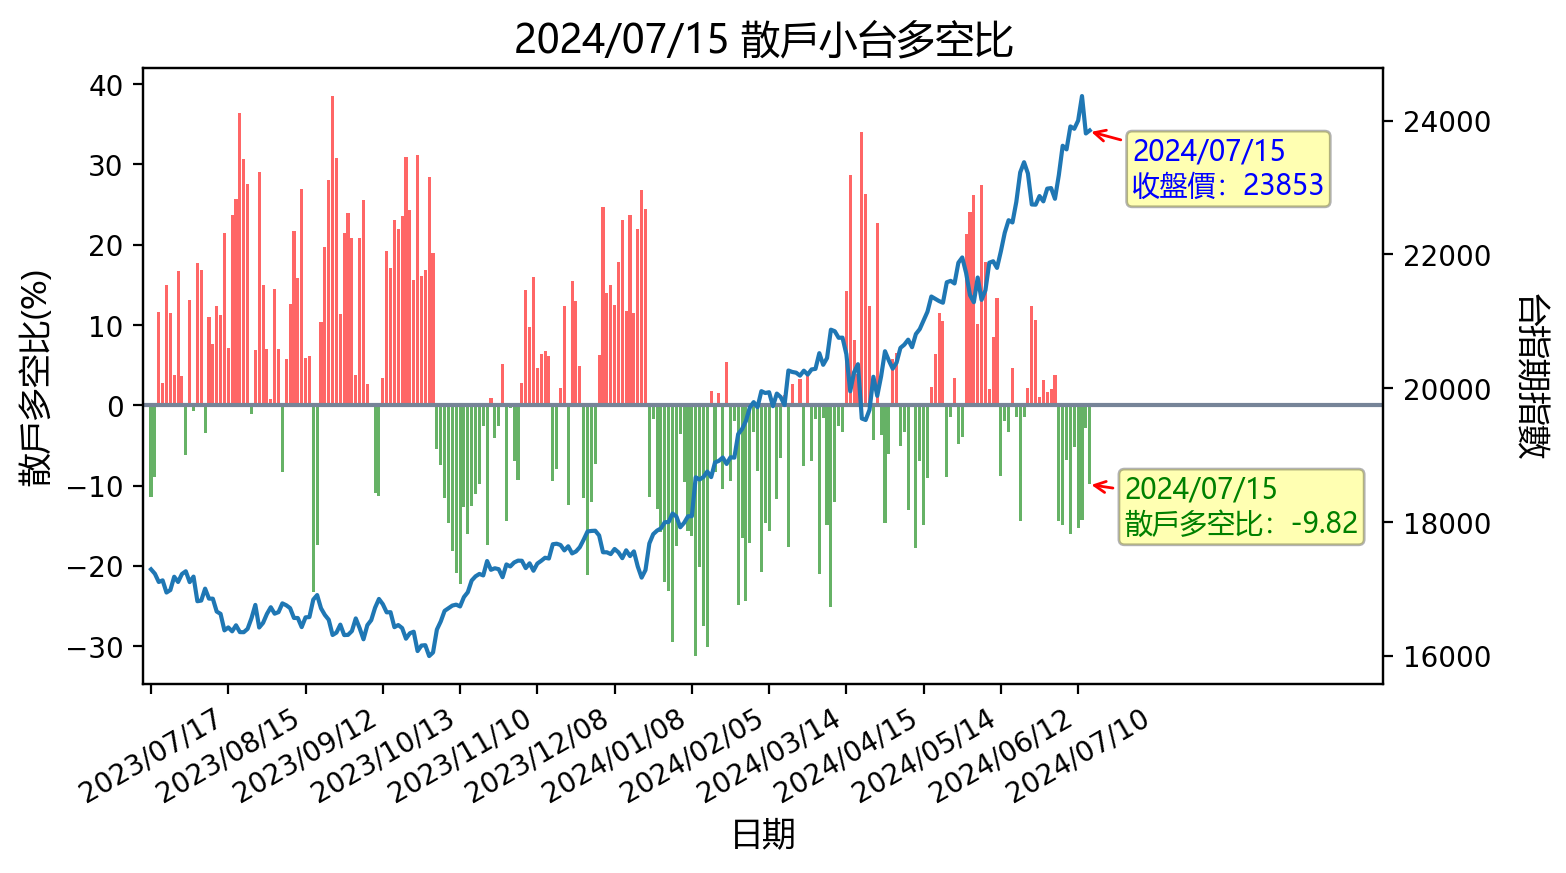
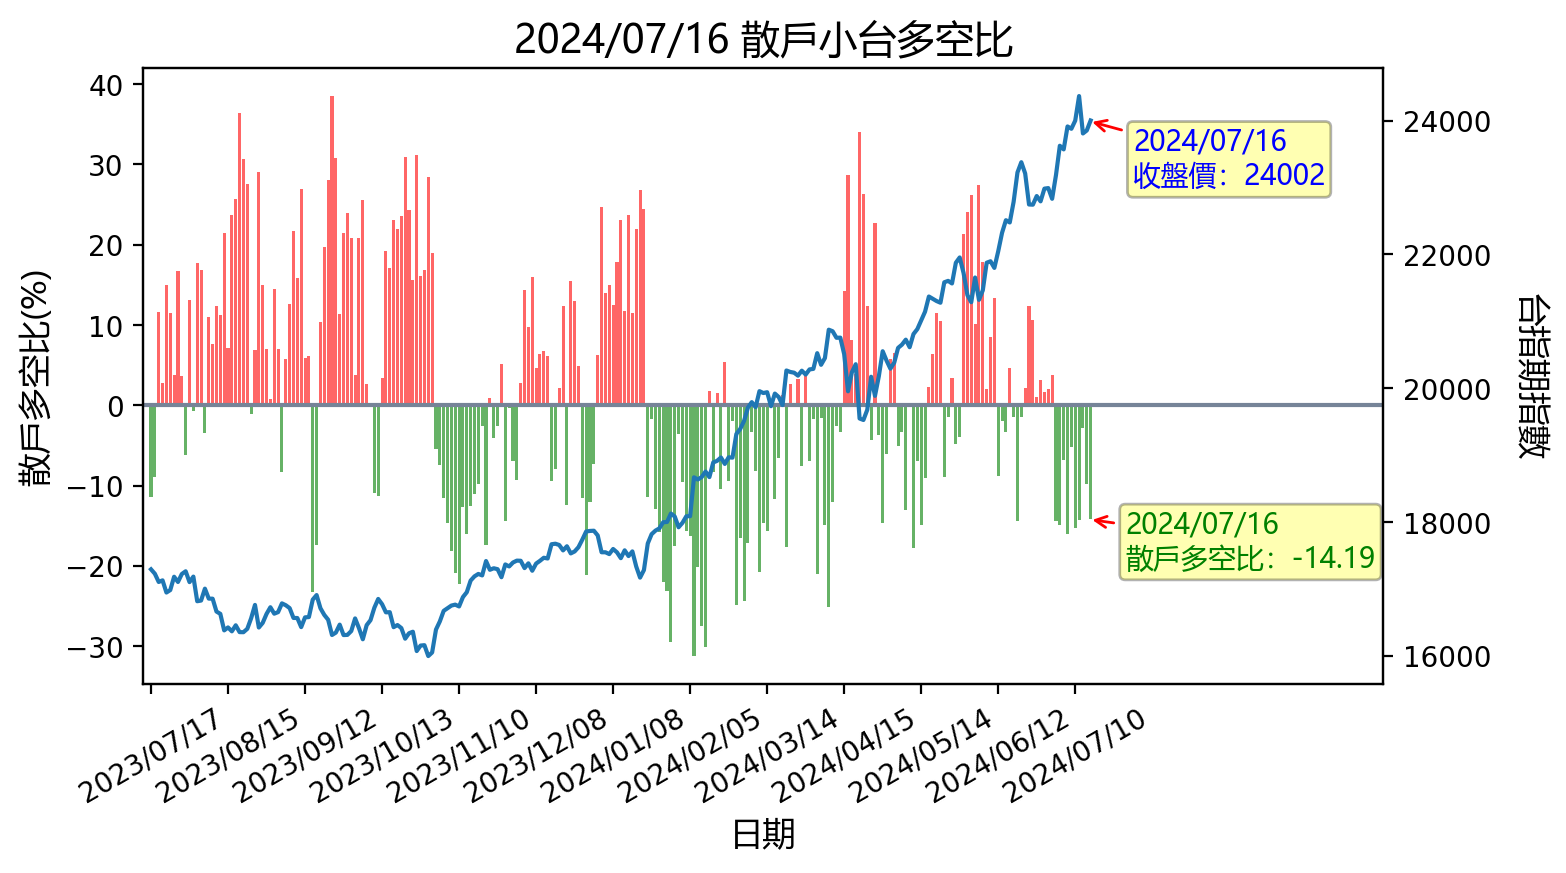
更新時間: Tue Jul 16 16:37:08 CST 2024

diff --git a/README.md b/README.md
@@ -1,12 +1,12 @@
-## 20240715 台指期「預估換倉成本」
+## 20240716 台指期「預估換倉成本」
 ![](images/txfcost.png)
 
-## 20240715 台指期「散戶小台多空比」
+## 20240716 台指期「散戶小台多空比」
 ![](images/bbiri.png)
 
-## 20240715 台指選擇權「Put/Call Ratios」
+## 20240716 台指選擇權「Put/Call Ratios」
 ![](images/pcratio.png)
 
-## 20240715 台指期「大額交易人」
+## 20240716 台指期「大額交易人」
 ![](images/blocktrade.png)
 
